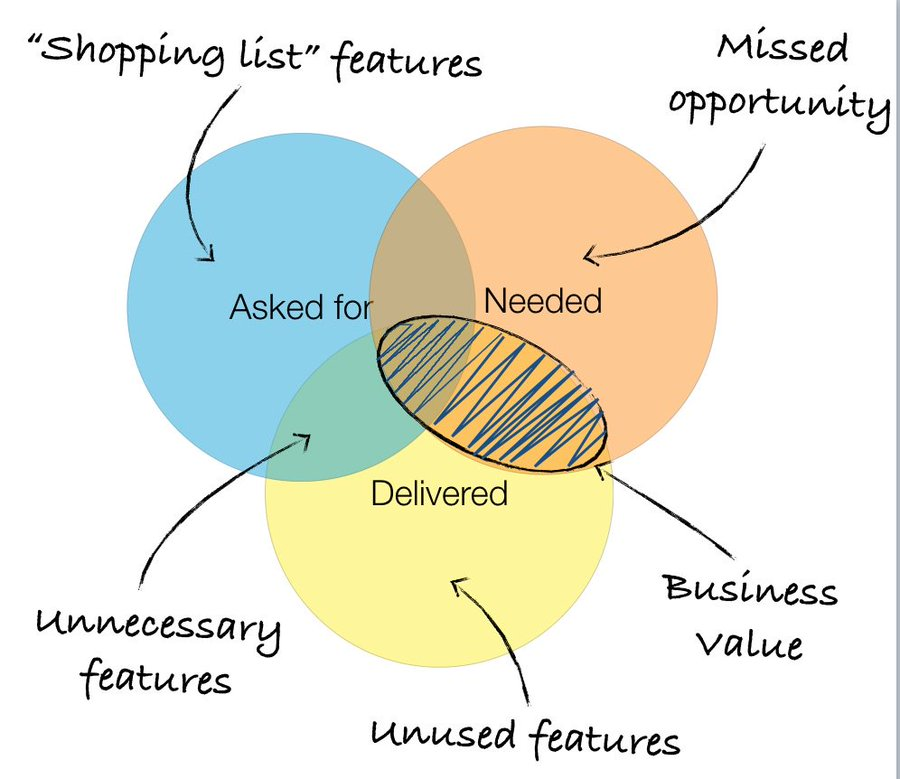
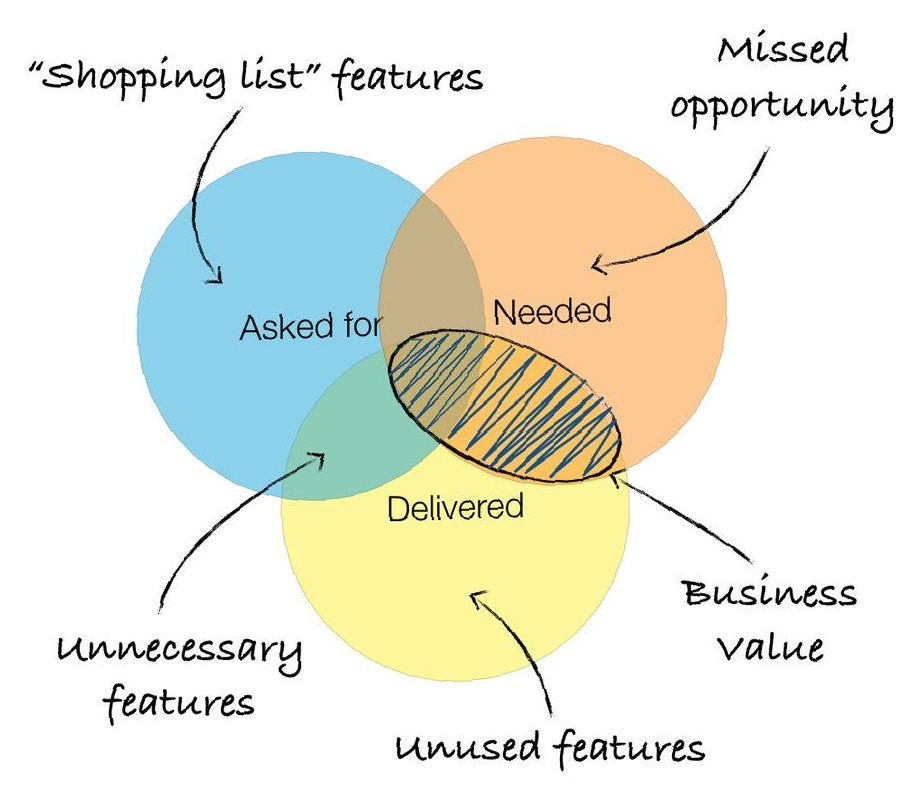
Image editing to Venn diagram on unnecessary features

diff --git a/slides/content/09c-avoidinginteractions.tex b/slides/content/09c-avoidinginteractions.tex
@@ -16,7 +16,7 @@
 \begin{frame}{\myframetitle}
 	\begin{fancycolumns}
 		\begin{exampletight}{John Ferguson Smart (2017)}
-			\picDark[width=.98\linewidth,angle=2,trim=0 0 5 0,clip]{unnecessary-features}
+			\picDark[width=\linewidth]{unnecessary-features}
 		\end{exampletight}
 		% 
 	\nextcolumn
